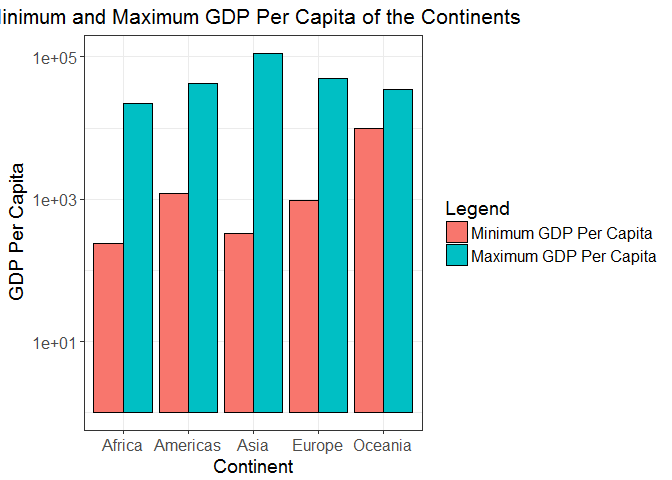
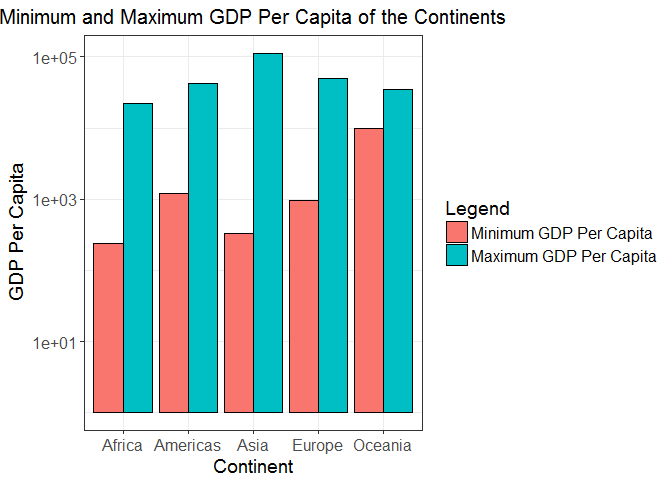
change to title of first figure

Changed region(s): [[0.0, 0.0, 0.4062, 0.0625], [0.4375, 0.0, 0.7812, 0.0625]]

diff --git a/hw03/hw03.md b/hw03/hw03.md
@@ -63,7 +63,7 @@ ggplot(p2, aes(x = continent, y = value, fill = variable)) +
   theme(axis.title = element_text(size=14),
         axis.text.x = element_text(size=12),
         axis.text.y = element_text(size=12),
-        plot.title = element_text(size=16, hjust = 0.5),
+        plot.title = element_text(size=15, hjust = 0.5),
         legend.title = element_text(size=14),
         legend.text = element_text(size=12)) +
   labs(x = "Continent", y = "GDP Per Capita", title = "Minimum and Maximum GDP Per Capita of the Continents")
